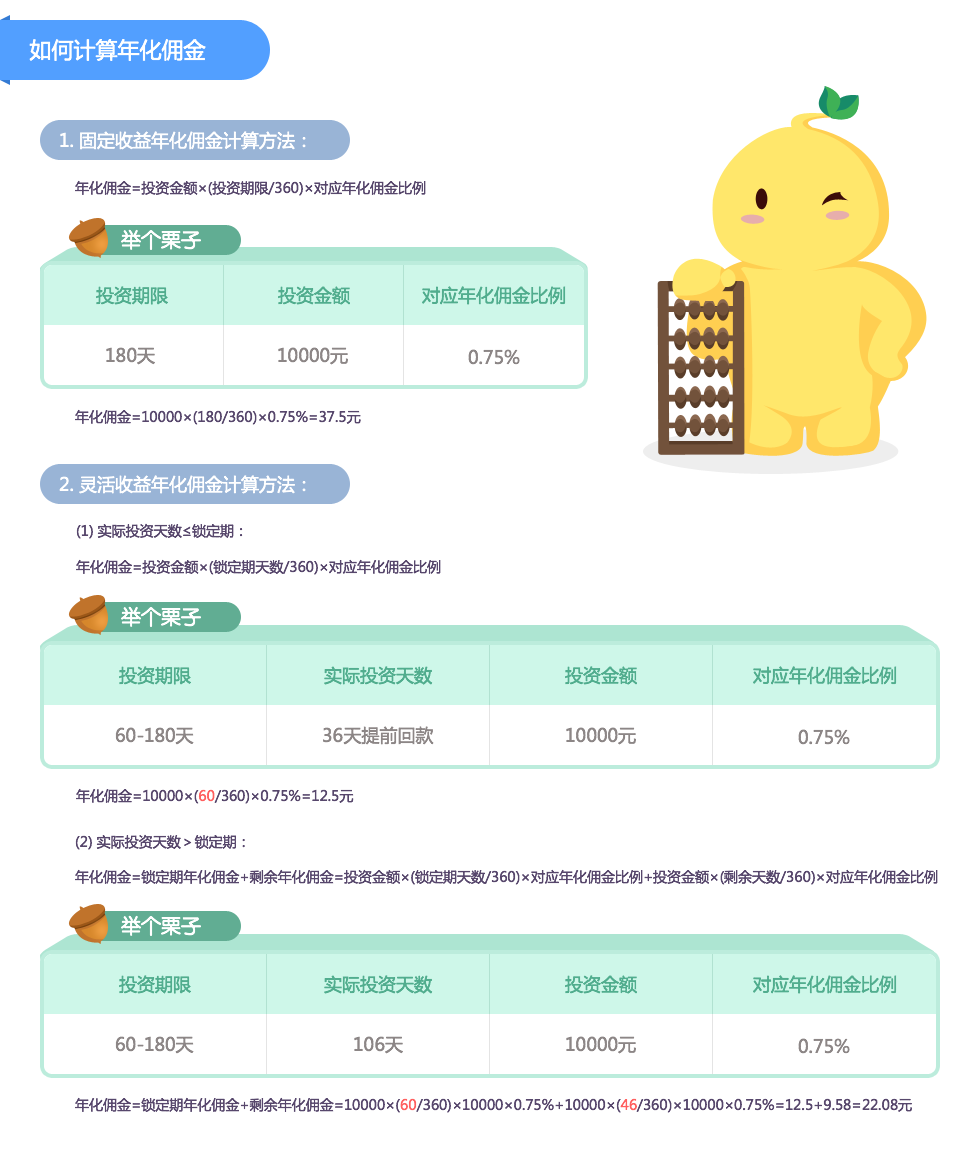
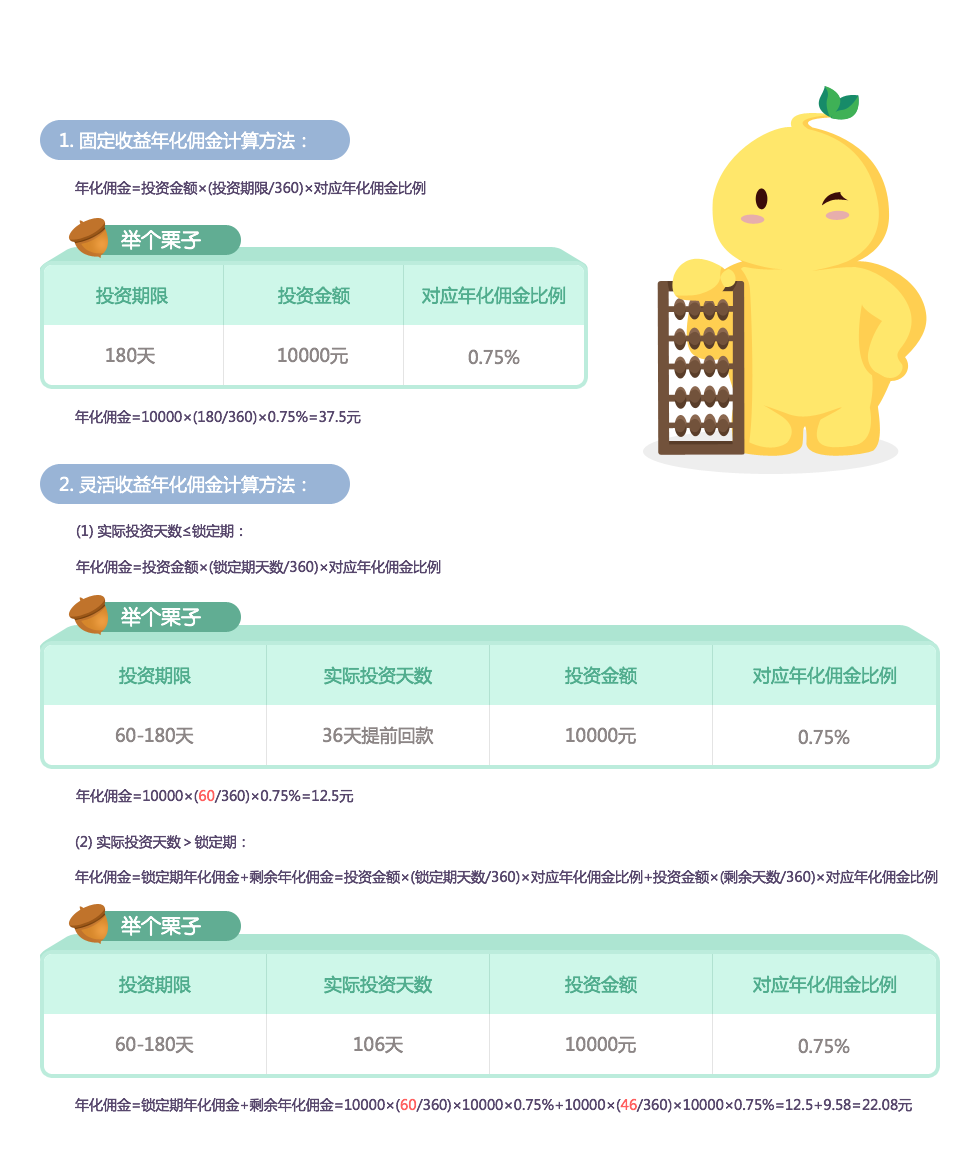
11:55

Changed region(s): [[0.0, 0.0, 0.2784, 0.0938]]

diff --git a/apps/eten/topic-a-rebate/less/index.less b/apps/eten/topic-a-rebate/less/index.less
@@ -37,6 +37,19 @@ ol li {
   position: relative;
   margin-left: -10px;
   margin-bottom: 80px;
+h1{
+  width: 384px;
+  height: 70px;
+  line-height: 70px;
+  background: url(../images/up_b_1.png) no-repeat;
+  position: absolute;
+  left: -1px;
+  text-align: left;
+  font-size: 22px;
+  color: white;
+  top: 16px;
+  text-indent: 40px;
+  }
   .cnt {
     width: 980px
   }
@@ -283,7 +296,11 @@ ol li {
   bottom: 45px;
   right: -235px
 }
-
+.bottom1{
+  position: absolute;
+  left: 80px;
+  bottom: -46px;
+}
 .dou2 {
   position: absolute;
   top: 106px;

diff --git a/apps/eten/topic-a-rebate/index.html b/apps/eten/topic-a-rebate/index.html
@@ -59,9 +59,11 @@
              </div>
 
             <div class="contribution">
+                <h1>如何计算年化佣金</h1>
                 <img class="left" src="./images/left.png">
                 <img class="right2" src="./images/right2.png">
                 <img class="cnt" src="./images/up_h.png">
+                <img class="bottom1" src="./images/bottom1.png">
             </div>
 
             <div class="privileges">
